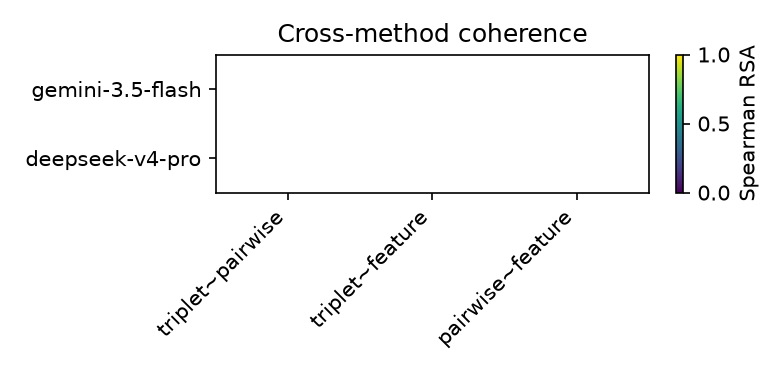
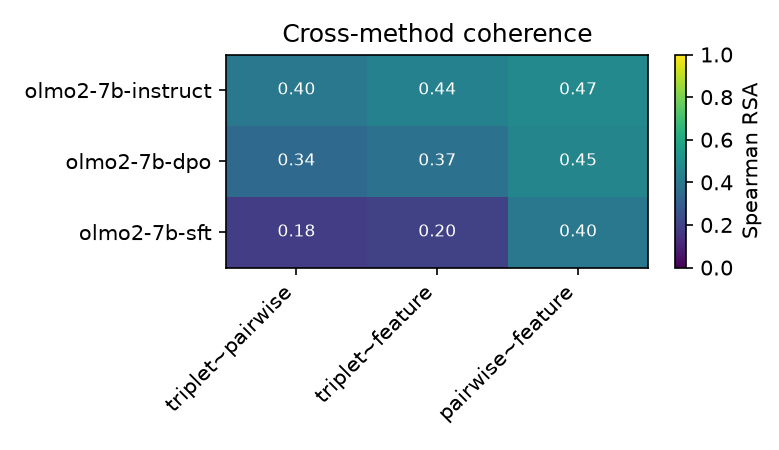
Add few-shot base measurement (run_fewshot.py) + fewshot exemplars

diff --git a/src/run_fewshot.py b/src/run_fewshot.py
@@ -1,0 +1,102 @@
+"""Few-shot generation for BASE models: prepend worked examples so a pretrained
+model produces the answer format without instruction-tuning.
+
+Writes triplet_fs.csv / pairwise_fs.csv (keeps zero-shot and _lp files intact).
+This is a third base-appropriate measurement, complementary to logprob.
+
+Usage:
+  python run_fewshot.py --model olmo2-7b-base --methods triplet pairwise
+"""
+import argparse
+import csv
+import glob
+import os
+import sys
+
+import yaml
+
+sys.path.insert(0, os.path.dirname(os.path.abspath(__file__)))
+from prompts import (FEWSHOT_TRIPLET, FEWSHOT_PAIRWISE,  # noqa: E402
+                     triplet_prompt, pairwise_prompt)
+from stimuli import _read_rows  # noqa: E402
+
+HERE = os.path.dirname(os.path.dirname(os.path.abspath(__file__)))
+RAW = os.path.join(HERE, "results", "raw")
+STIM = os.path.join(HERE, "data", "stimuli")
+
+
+def load_registry():
+    with open(os.path.join(HERE, "configs", "models.yaml")) as f:
+        return yaml.safe_load(f)
+
+
+def resolve(repo, cache):
+    for snap in sorted(glob.glob(os.path.join(
+            cache, "models--" + repo.replace("/", "--"), "snapshots", "*"))):
+        if glob.glob(os.path.join(snap, "config.json")):
+            return snap
+    return repo
+
+
+def main():
+    ap = argparse.ArgumentParser()
+    ap.add_argument("--model", required=True)
+    ap.add_argument("--methods", nargs="+", default=["triplet", "pairwise"])
+    ap.add_argument("--gpu_mem_util", type=float, default=0.85)
+    ap.add_argument("--max_model_len", type=int, default=2048)
+    ap.add_argument("--overwrite", action="store_true")
+    args = ap.parse_args()
+
+    reg = load_registry()
+    spec = reg["local"][args.model]
+    hf_cache = reg["hf_cache"]
+    os.environ.setdefault("HF_HOME", hf_cache)
+    os.environ.setdefault("HF_HUB_CACHE", hf_cache)
+    mp = resolve(spec["path"], hf_cache)
+    if os.path.isdir(mp):
+        os.environ["HF_HUB_OFFLINE"] = "1"
+        os.environ["TRANSFORMERS_OFFLINE"] = "1"
+
+    outdir = os.path.join(RAW, args.model)
+    os.makedirs(outdir, exist_ok=True)
+
+    from vllm import LLM, SamplingParams
+    llm = LLM(model=mp, download_dir=hf_cache, max_model_len=args.max_model_len,
+              gpu_memory_utilization=args.gpu_mem_util, dtype="bfloat16",
+              trust_remote_code=True)
+    sp = SamplingParams(temperature=0, max_tokens=8, stop=["\n"])
+
+    if "triplet" in args.methods:
+        out = os.path.join(outdir, "triplet_fs.csv")
+        if os.path.exists(out) and not args.overwrite:
+            print(f"[skip] {out}")
+        else:
+            rows = _read_rows(os.path.join(STIM, "triplets.csv"))
+            prompts = [FEWSHOT_TRIPLET + triplet_prompt(a, c1, c2) + "\n"
+                       for a, c1, c2 in rows]
+            outs = llm.generate(prompts, sp)
+            with open(out, "w", newline="") as f:
+                w = csv.writer(f)
+                w.writerow(["input", "prompt", "response"])
+                for (a, c1, c2), o in zip(rows, outs):
+                    w.writerow([f"{a}|{c1}|{c2}", "fewshot", o.outputs[0].text.strip()])
+            print(f"[done] triplet (fewshot): {len(rows)} rows -> {out}")
+
+    if "pairwise" in args.methods:
+        out = os.path.join(outdir, "pairwise_fs.csv")
+        if os.path.exists(out) and not args.overwrite:
+            print(f"[skip] {out}")
+        else:
+            rows = _read_rows(os.path.join(STIM, "pairs.csv"))
+            prompts = [FEWSHOT_PAIRWISE + pairwise_prompt(a, b) + "\n" for a, b in rows]
+            outs = llm.generate(prompts, sp)
+            with open(out, "w", newline="") as f:
+                w = csv.writer(f)
+                w.writerow(["input", "prompt", "response"])
+                for (a, b), o in zip(rows, outs):
+                    w.writerow([f"{a}|{b}", "fewshot", o.outputs[0].text.strip()])
+            print(f"[done] pairwise (fewshot): {len(rows)} rows -> {out}")
+
+
+if __name__ == "__main__":
+    main()

diff --git a/src/prompts.py b/src/prompts.py
@@ -6,6 +6,23 @@ Ported verbatim from the EMNLP/llm-response-pipeline paper
 
 SYSTEM_PROMPT = "You are a helpful assistant who gives responses to questions."
 
+# Few-shot exemplars for BASE models (no instruction-following). Prepended as a
+# plain-text demonstration block so the base continues the pattern. Uses concepts
+# NOT in the 30-item stimulus set to avoid leaking answers.
+FEWSHOT_TRIPLET = (
+    "Answer using only one word - Dog or Chair and not Cat. "
+    "Which is more similar in semantic meaning to Cat?\nDog\n\n"
+    "Answer using only one word - Table or Apple and not Desk. "
+    "Which is more similar in semantic meaning to Desk?\nTable\n\n"
+    "Answer using only one word - Boat or Hammer and not Ship. "
+    "Which is more similar in semantic meaning to Ship?\nBoat\n\n"
+)
+FEWSHOT_PAIRWISE = (
+    "Answer with only one number from 1 to 7: How semantically similar is Cat and Dog?\n6\n\n"
+    "Answer with only one number from 1 to 7: How semantically similar is Table and Apple?\n2\n\n"
+    "Answer with only one number from 1 to 7: How semantically similar is Ship and Boat?\n7\n\n"
+)
+
 
 def triplet_prompt(anchor: str, concept1: str, concept2: str) -> str:
     """Anchored similarity: which of two items is more similar to the anchor."""
